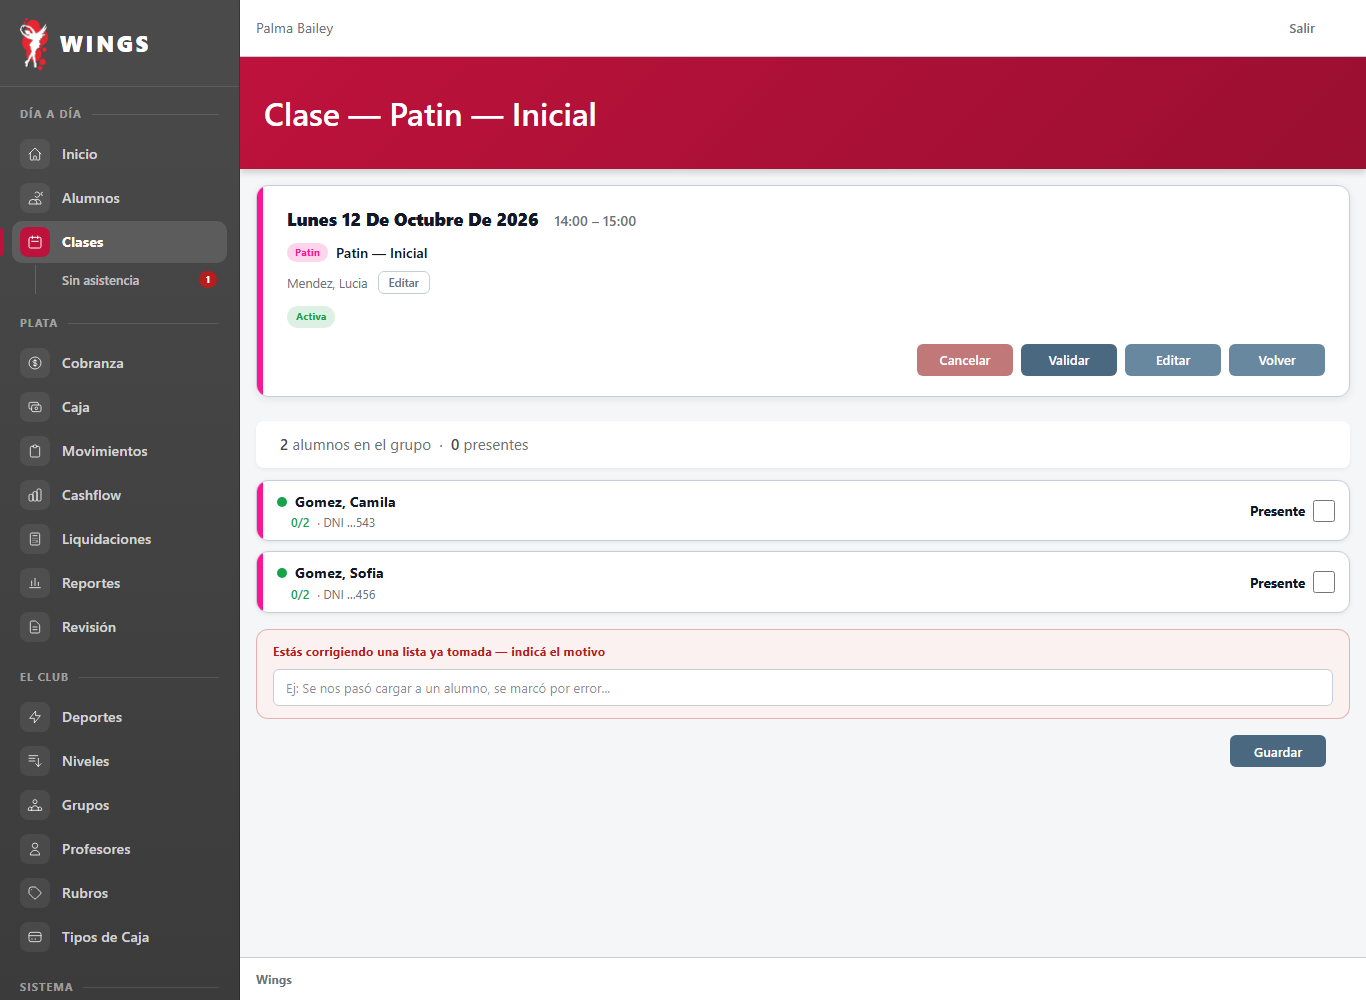
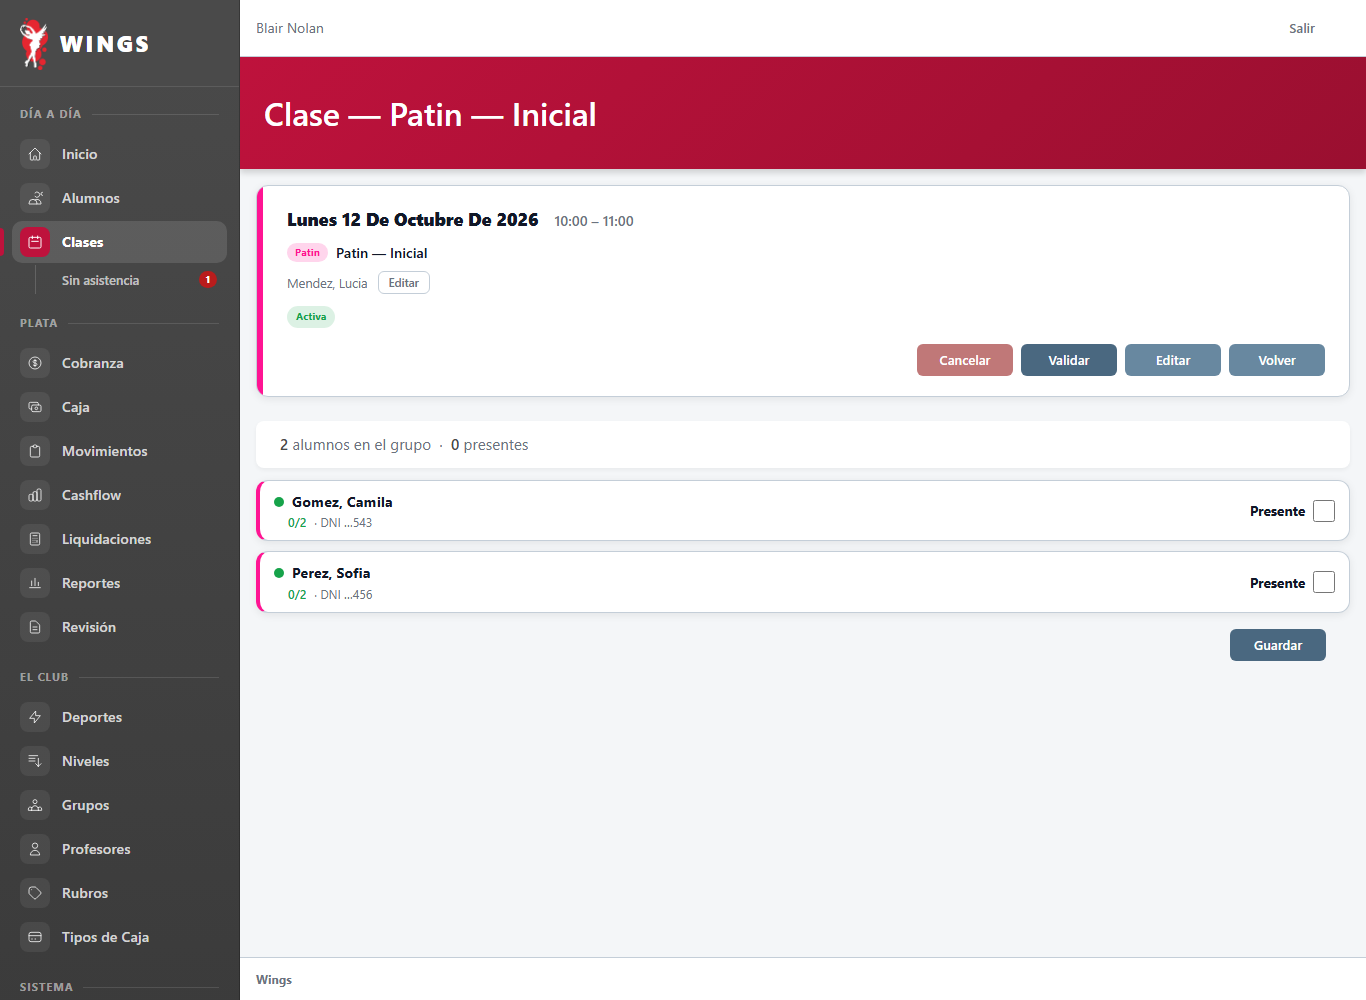
T67: corregir borde en celular de la tarjeta de asistencia en clases/show
Diseno-autorizado: Carlos pidio corregir el borde en celular de la lista de asistencia en clases/show usando alumno-card

diff --git a/docs/06-pruebas/PRU-04/evidencia-t34-t67/03-lista-asistencia-dni-recortado.html b/docs/06-pruebas/PRU-04/evidencia-t34-t67/03-lista-asistencia-dni-recortado.html
@@ -3,7 +3,7 @@
 <head>
     <meta charset="utf-8">
     <meta name="viewport" content="width=device-width, initial-scale=1">
-    <meta name="csrf-token" content="tUpKsndGzgFE8pnIqAL73BydLDOxAhEplDGxrLKi">
+    <meta name="csrf-token" content="Dxpr21m2ddO1BhmwWsAHsm5XtJeM8Ku0lHqLUxWQ">
     <title>Lunes 12 de octubre de 2026 — Patin — Inicial – Wings</title>
     <link rel="icon" type="image/x-icon" href="http://gestion-wings/favicon.ico">
     <link rel="icon" type="image/png" sizes="32x32" href="http://gestion-wings/favicon-32x32.png">
@@ -223,10 +223,10 @@
                             <path stroke-linecap="round" stroke-linejoin="round" stroke-width="2" d="M4 6h16M4 12h16M4 18h16"/>
                         </svg>
                     </button>
-                    <span class="text-sm text-[var(--color-text-muted)]" style="overflow:hidden; text-overflow:ellipsis; white-space:nowrap;">Palma Bailey</span>
+                    <span class="text-sm text-[var(--color-text-muted)]" style="overflow:hidden; text-overflow:ellipsis; white-space:nowrap;">Blair Nolan</span>
                 </div>
                 <form method="POST" action="http://gestion-wings/logout">
-                    <input type="hidden" name="_token" value="tUpKsndGzgFE8pnIqAL73BydLDOxAhEplDGxrLKi" autocomplete="off">                    <button class="ds-btn ds-btn--ghost"
+                    <input type="hidden" name="_token" value="Dxpr21m2ddO1BhmwWsAHsm5XtJeM8Ku0lHqLUxWQ" autocomplete="off">                    <button class="ds-btn ds-btn--ghost"
             type="submit"
             >
 
@@ -266,7 +266,7 @@
                     Lunes 12 de octubre de 2026
                 </h2>
                 <span style="font-size:0.9rem; font-weight:600; color:var(--color-text-muted);">
-                    14:00 – 15:00
+                    10:00 – 11:00
                 </span>
             </div>
 
@@ -318,8 +318,8 @@
                 
                 
                 
-                                    <form method="POST" action="http://gestion-wings/clases/2/validar" style="display:inline;">
-                        <input type="hidden" name="_token" value="tUpKsndGzgFE8pnIqAL73BydLDOxAhEplDGxrLKi" autocomplete="off"> <input type="hidden" name="_method" value="PATCH">                        <button type="submit"
+                                    <form method="POST" action="http://gestion-wings/clases/1/validar" style="display:inline;">
+                        <input type="hidden" name="_token" value="Dxpr21m2ddO1BhmwWsAHsm5XtJeM8Ku0lHqLUxWQ" autocomplete="off"> <input type="hidden" name="_method" value="PATCH">                        <button type="submit"
                                 style="display:inline-flex; align-items:center; justify-content:center;
                                        width:96px; height:32px; font-size:0.82rem; font-weight:600;
                                        border-radius:var(--radius-btn); cursor:pointer; white-space:nowrap;
@@ -329,7 +329,7 @@
                             Validar
                         </button>
                     </form>
-                    <a href="http://gestion-wings/clases/2/edit"
+                    <a href="http://gestion-wings/clases/1/edit"
                        style="display:inline-flex; align-items:center; justify-content:center;
                               width:96px; height:32px; font-size:0.82rem; font-weight:600;
                               border-radius:var(--radius-btn); cursor:pointer; white-space:nowrap;
@@ -452,21 +452,17 @@
 
 
 
-<div class="ds-card ds-surface alumno-asistencia-card"
-     id="card-2"
-     data-alumno-id="2"
+<div class="alumno-card alumno-card--patin alumno-asistencia-card"
+     id="card-1"
+     data-alumno-id="1"
      data-plan="2"
      data-asistencias-semana="0"
-     style="margin-bottom:10px;
+     style="margin-bottom:10px; padding: 10px 14px;
             
             
             transition: background 200ms ease;">
 
-    <div class="ds-card__rail ds-rail ds-rail--patin"></div>
-
-    <div class="ds-card__content" style="padding: 10px 14px;">
-
-        <div class="flex items-center justify-between gap-3">
+    <div class="flex items-center justify-between gap-3">
             <div class="min-w-0 flex-1">
                 <div class="flex items-center gap-2">
                     <span class="ds-dot ds-dot--success flex-shrink-0"></span>
@@ -479,73 +475,6 @@
                             0/2
                                                     </span>
                                                                 <span>· DNI …543</span>
-                                    </div>
-            </div>
-
-            <div class="flex-shrink-0">
-                <label style="display:flex; align-items:center; gap:8px; cursor:pointer; font-size:0.85rem; font-weight:700; user-select:none;"
-                       for="presente-2">
-                    <span class="hidden sm:inline">Presente</span>
-                    <input type="checkbox"
-                           id="presente-2"
-                           class="presente-checkbox"
-                           data-alumno-id="2"
-                           
-                           
-                           style="width:22px; height:22px; cursor:pointer; accent-color:var(--color-success);">
-                </label>
-            </div>
-        </div>
-
-        
-        <div id="exceso-2"
-             style="display:none; margin-top:8px; padding:8px 12px;
-                    background:color-mix(in srgb, var(--color-danger) 8%, transparent);
-                    border-radius:var(--radius-btn);
-                    border:1px solid color-mix(in srgb, var(--color-danger) 25%, transparent);">
-            <span style="font-size:0.7rem; font-weight:700; text-transform:uppercase;
-                         letter-spacing:0.05em; color:var(--color-danger); display:block; margin-bottom:6px;">
-                Excede el plan — indicar motivo
-            </span>
-            <select id="motivo-2"
-                    style="font-size:0.82rem; padding:4px 10px; border-radius:var(--radius-btn);
-                           border:1px solid var(--color-border); background:var(--color-surface);
-                           color:var(--color-text); cursor:pointer; font-family:inherit; width:100%; max-width:300px;">
-                <option value="EXTRA">Clase adicional (EXTRA)</option>
-                <option value="RECUPERA">Recupera clase perdida (RECUPERA)</option>
-            </select>
-        </div>
-
-    </div>
-</div>
-
-<div class="ds-card ds-surface alumno-asistencia-card"
-     id="card-1"
-     data-alumno-id="1"
-     data-plan="2"
-     data-asistencias-semana="0"
-     style="margin-bottom:10px;
-            
-            
-            transition: background 200ms ease;">
-
-    <div class="ds-card__rail ds-rail ds-rail--patin"></div>
-
-    <div class="ds-card__content" style="padding: 10px 14px;">
-
-        <div class="flex items-center justify-between gap-3">
-            <div class="min-w-0 flex-1">
-                <div class="flex items-center gap-2">
-                    <span class="ds-dot ds-dot--success flex-shrink-0"></span>
-                    <span style="font-weight:700; font-size:0.9rem;" class="truncate">
-                        Gomez, Sofia
-                    </span>
-                </div>
-                <div class="flex items-center gap-2 mt-0.5 text-xs text-wings-muted" style="margin-left: 14px;">
-                                            <span style="font-weight:600; color:var(--color-success);">
-                            0/2
-                                                    </span>
-                                                                <span>· DNI …456</span>
                                     </div>
             </div>
 
@@ -584,7 +513,68 @@
         </div>
 
     </div>
-</div>
+
+<div class="alumno-card alumno-card--patin alumno-asistencia-card"
+     id="card-2"
+     data-alumno-id="2"
+     data-plan="2"
+     data-asistencias-semana="0"
+     style="margin-bottom:10px; padding: 10px 14px;
+            
+            
+            transition: background 200ms ease;">
+
+    <div class="flex items-center justify-between gap-3">
+            <div class="min-w-0 flex-1">
+                <div class="flex items-center gap-2">
+                    <span class="ds-dot ds-dot--success flex-shrink-0"></span>
+                    <span style="font-weight:700; font-size:0.9rem;" class="truncate">
+                        Perez, Sofia
+                    </span>
+                </div>
+                <div class="flex items-center gap-2 mt-0.5 text-xs text-wings-muted" style="margin-left: 14px;">
+                                            <span style="font-weight:600; color:var(--color-success);">
+                            0/2
+                                                    </span>
+                                                                <span>· DNI …456</span>
+                                    </div>
+            </div>
+
+            <div class="flex-shrink-0">
+                <label style="display:flex; align-items:center; gap:8px; cursor:pointer; font-size:0.85rem; font-weight:700; user-select:none;"
+                       for="presente-2">
+                    <span class="hidden sm:inline">Presente</span>
+                    <input type="checkbox"
+                           id="presente-2"
+                           class="presente-checkbox"
+                           data-alumno-id="2"
+                           
+                           
+                           style="width:22px; height:22px; cursor:pointer; accent-color:var(--color-success);">
+                </label>
+            </div>
+        </div>
+
+        
+        <div id="exceso-2"
+             style="display:none; margin-top:8px; padding:8px 12px;
+                    background:color-mix(in srgb, var(--color-danger) 8%, transparent);
+                    border-radius:var(--radius-btn);
+                    border:1px solid color-mix(in srgb, var(--color-danger) 25%, transparent);">
+            <span style="font-size:0.7rem; font-weight:700; text-transform:uppercase;
+                         letter-spacing:0.05em; color:var(--color-danger); display:block; margin-bottom:6px;">
+                Excede el plan — indicar motivo
+            </span>
+            <select id="motivo-2"
+                    style="font-size:0.82rem; padding:4px 10px; border-radius:var(--radius-btn);
+                           border:1px solid var(--color-border); background:var(--color-surface);
+                           color:var(--color-text); cursor:pointer; font-family:inherit; width:100%; max-width:300px;">
+                <option value="EXTRA">Clase adicional (EXTRA)</option>
+                <option value="RECUPERA">Recupera clase perdida (RECUPERA)</option>
+            </select>
+        </div>
+
+    </div>
 
 
 <div id="toast-asistencias"
@@ -594,18 +584,6 @@
             box-shadow:0 8px 24px rgba(0,0,0,0.25);"></div>
 
 
-    <div style="margin-top:16px; padding:12px 16px; background:color-mix(in srgb, var(--color-danger) 6%, var(--color-surface));
-                border:1px solid color-mix(in srgb, var(--color-danger) 30%, transparent); border-radius:var(--radius-card);">
-        <p style="font-size:0.78rem; font-weight:700; color:var(--color-danger); margin:0 0 8px;">
-            Estás corrigiendo una lista ya tomada — indicá el motivo
-        </p>
-        <input type="text" id="input-motivo-asistencias"
-               placeholder="Ej: Se nos pasó cargar a un alumno, se marcó por error..."
-               maxlength="255"
-               style="width:100%; padding:8px 12px; font-size:0.82rem;
-                      border:1px solid var(--color-border); border-radius:var(--radius-btn);
-                      background:var(--color-surface); color:var(--color-text); font-family:inherit;">
-    </div>
 <div style="display:flex; justify-content:flex-end; align-items:center; gap:12px; margin-top:16px; margin-bottom:32px; padding-right:1.5rem;">
     <button id="btn-guardar-asistencias"
             
@@ -632,11 +610,11 @@
 
 <script>
 (function () {
-    const infoSemana = {"2":{"asistencias_semana":0,"plan_semana":2,"excede":false},"1":{"asistencias_semana":0,"plan_semana":2,"excede":false}};
-    const claseId    = 2;
+    const infoSemana = {"1":{"asistencias_semana":0,"plan_semana":2,"excede":false},"2":{"asistencias_semana":0,"plan_semana":2,"excede":false}};
+    const claseId    = 1;
     // El motivo solo se exige cuando se corrige algo YA cargado, no en la
     // primera carga de una clase que quedó sin tomar.
-    const requiereMotivoAsistencia = true;
+    const requiereMotivoAsistencia = false;
     const requiereMotivoProfesores = true;
     const csrf       = document.querySelector('meta[name="csrf-token"]').content;
 

diff --git a/resources/views/clases/show.blade.php b/resources/views/clases/show.blade.php
@@ -300,21 +300,17 @@
     else                                $dotEstado = 'success';
 @endphp
 
-<div class="ds-card ds-surface alumno-asistencia-card"
+<div class="alumno-card alumno-card--{{ $rail }} alumno-asistencia-card"
      id="card-{{ $alumno->id }}"
      data-alumno-id="{{ $alumno->id }}"
      data-plan="{{ $planSemana ?? 0 }}"
      data-asistencias-semana="{{ $asisSemana }}"
-     style="margin-bottom:10px;
+     style="margin-bottom:10px; padding: 10px 14px;
             {{ $estaPresente ? 'background:color-mix(in srgb, var(--color-success) 8%, var(--color-surface));' : '' }}
             {{ $clase->cancelada ? 'opacity:0.6; pointer-events:none;' : '' }}
             transition: background 200ms ease;">
 
-    <div class="ds-card__rail ds-rail ds-rail--{{ $rail }}"></div>
-
-    <div class="ds-card__content" style="padding: 10px 14px;">
-
-        <div class="flex items-center justify-between gap-3">
+    <div class="flex items-center justify-between gap-3">
             <div class="min-w-0 flex-1">
                 <div class="flex items-center gap-2">
                     <span class="ds-dot ds-dot--{{ $dotEstado }} flex-shrink-0"></span>
@@ -372,7 +368,6 @@
         </div>
 
     </div>
-</div>
 @empty
     <div class="empty-state">
         <svg class="empty-state__icon" fill="none" stroke="currentColor" viewBox="0 0 24 24">

diff --git a/docs/00-estado/LOG-GEMINI.md b/docs/00-estado/LOG-GEMINI.md
@@ -9,6 +9,14 @@ no son nuevas verificaciones ni nuevas firmas del agente resumido.
 
 [Histórico completo hasta el corte](../99-archivo/bitacoras/2026-09-12/LOG-GEMINI.md)
 
+## 2026-10-19 — LOG GEM CAB — Corrección de borde en celular de la lista de asistencia (clases/show)
+
+- **Corrección de borde en tarjetas de alumnos (orden de Carlos):**
+  - En `resources/views/clases/show.blade.php`: las tarjetas de alumnos usaban `ds-card ds-surface` con un `<div class="ds-card__rail ds-rail">` interior. En móvil (`<= 768px`), la regla `app.css:1247` forzaba `padding-inline: calc(var(--mobile-actions-inset) - 1px) !important;` en `.ds-content > .ds-surface`, inyectando 23px de espacio blanco a la izquierda del riel y despegándolo del borde exterior como una píldora flotante.
+  - Se adaptó la tarjeta al estándar canónico de Wings: `<div class="alumno-card alumno-card--{{ $rail }} alumno-asistencia-card">`, eliminando el div interior `ds-rail` y `ds-card__content`. `alumno-card` define `border-left: 4px solid var(--color-sport-{{ $rail }})`, y en móvil `app.css:1242` descuenta los 4px (`padding-left: calc(var(--mobile-actions-inset) - 4px) !important;`), logrando que el borde izquierdo quede perfectamente integrado, continuo y al ras de la tarjeta.
+  - Se regeneraron `03-lista-asistencia-dni-recortado.html` y las capturas en escritorio (1366px) y móvil marco (360px). Comprobado visualmente: borde izquierdo continuo, sin píldora flotante ni margen blanco roto.
+- **Pruebas:** `ClaseSinAsistenciaYDniT34T67Test` y `CspSinCodigoIncrustadoTest` 100% en verde sobre `wings_testing_gemini`.
+
 ## 2026-10-19 — LOG GEM CAB — Corrección de diseño y evidencia en T34 y T67 (botón Nuevo fuera del título y planes activos en simulación)
 
 - **Corrección de diseño visual (orden de Carlos):**
